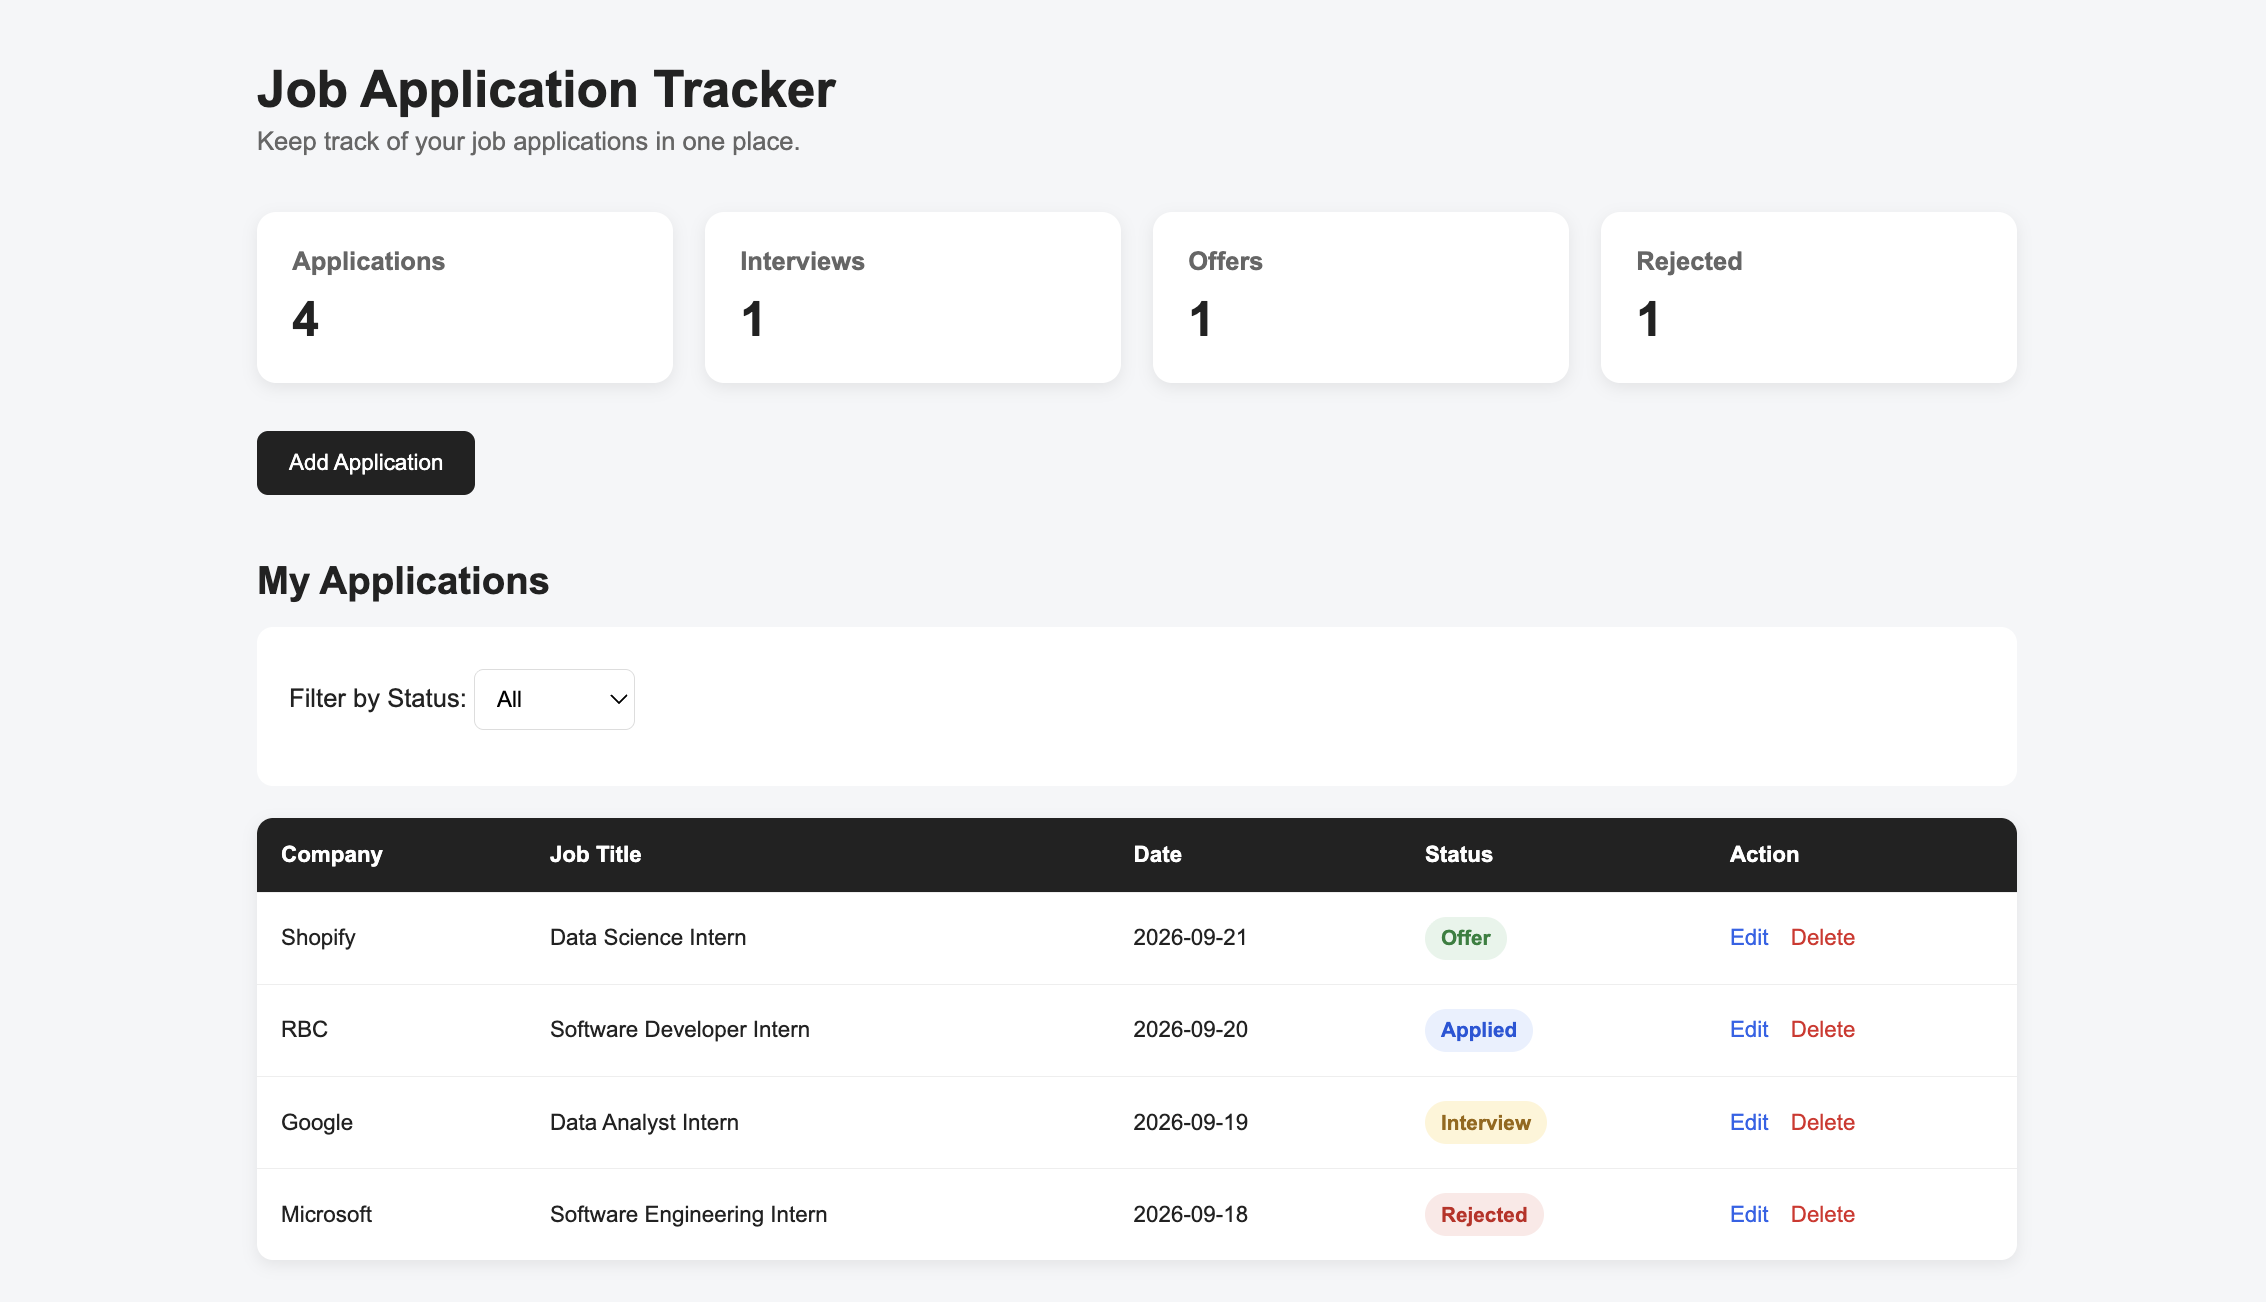
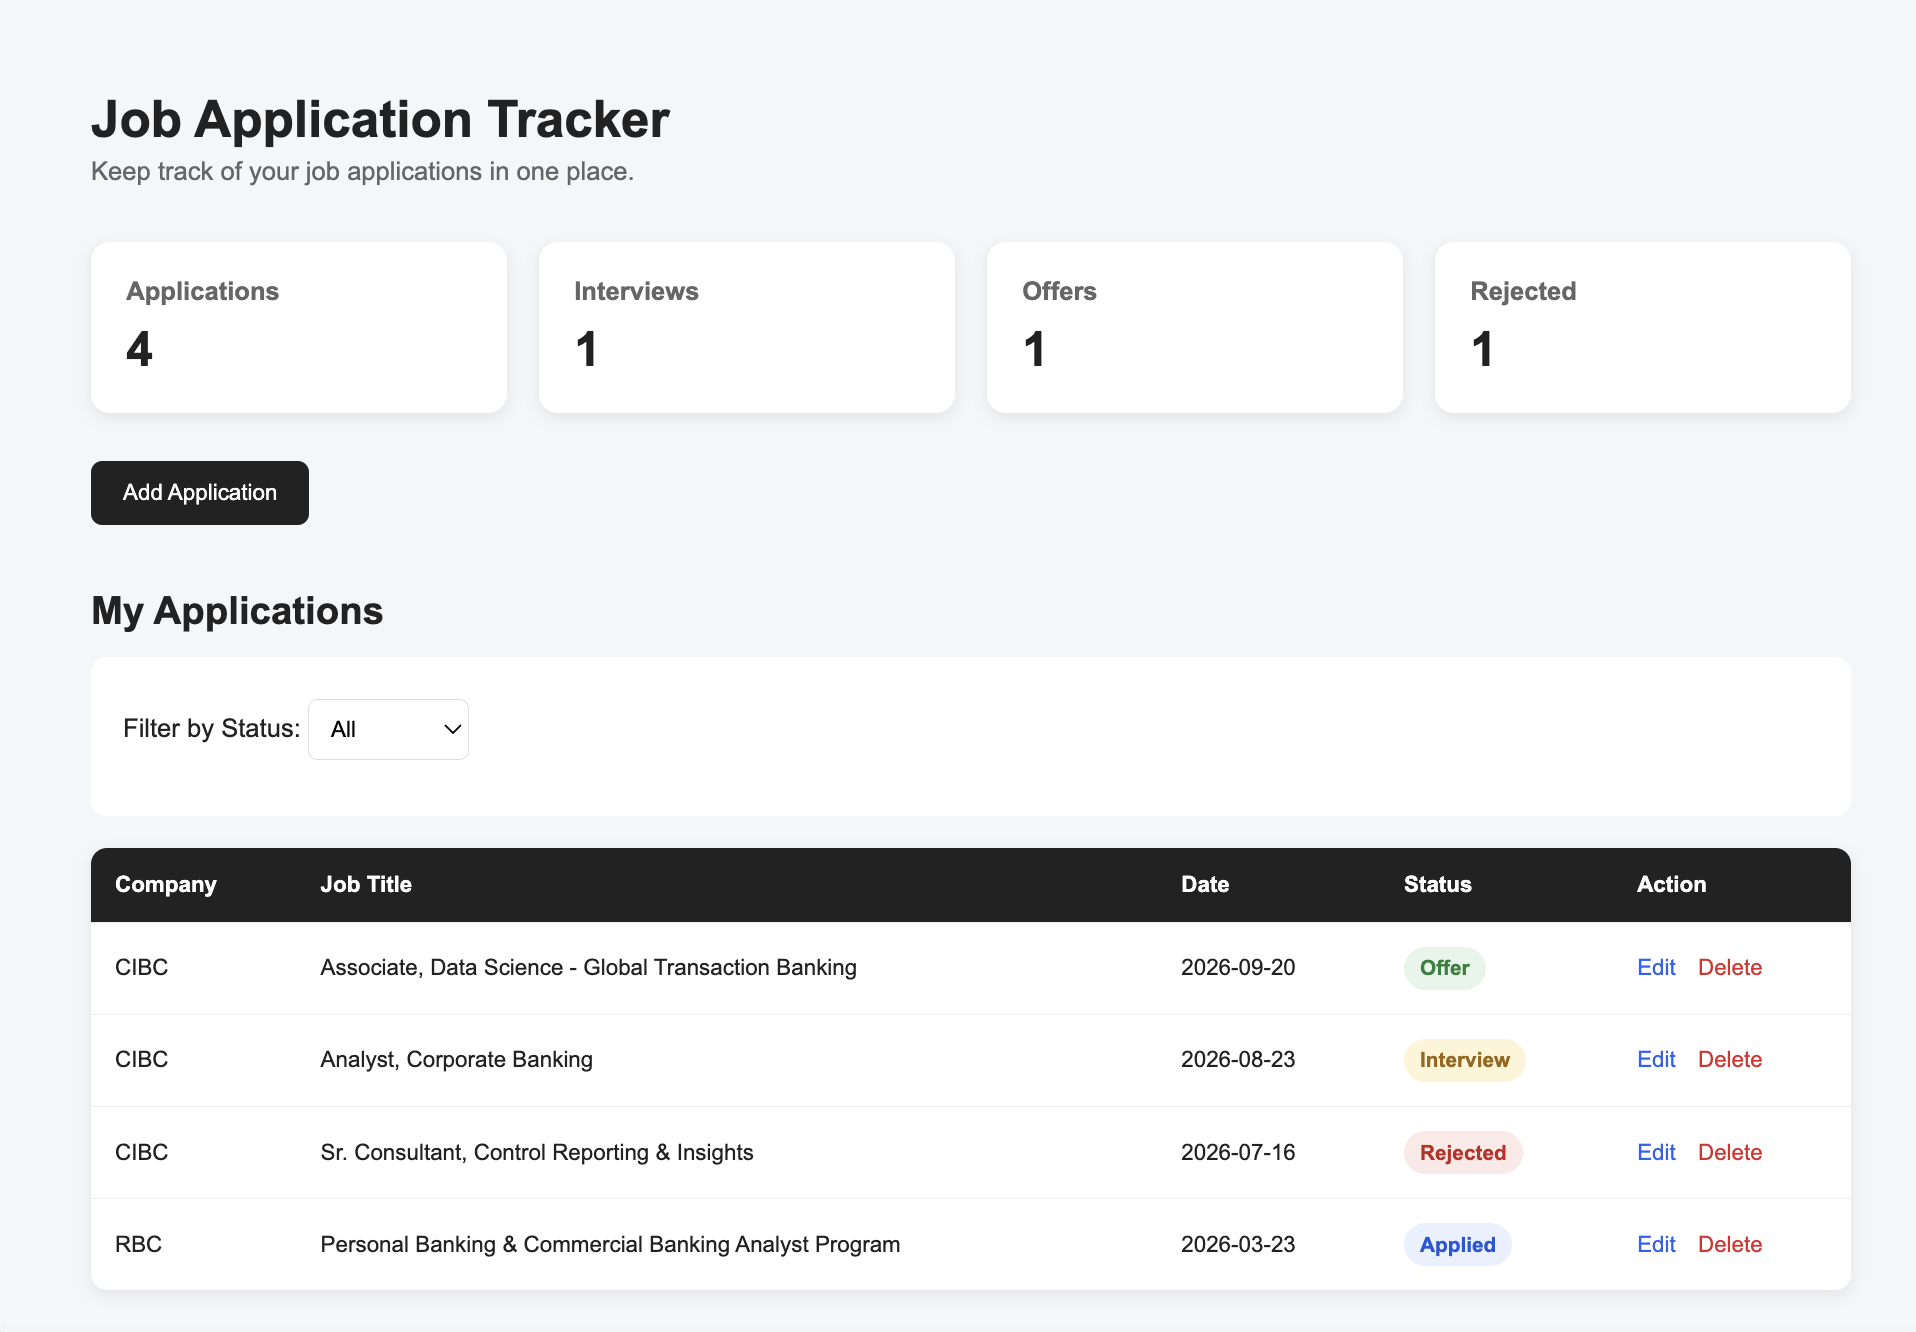
Add AI auto-fill to edit page and update README screenshots

diff --git a/templates/edit_application.html b/templates/edit_application.html
@@ -20,6 +20,23 @@
             <p class="error-message">{{ error }}</p>
         {% endif %}
 
+        <!-- AI auto-fill panel -->
+        <div class="ai-panel" style="border:1px solid #ddd; border-radius:8px; padding:16px; margin-bottom:20px;">
+            <label for="job_description"><strong>Paste job description (optional)</strong></label>
+            <textarea id="job_description" rows="6" style="width:100%; margin-top:6px;"
+                placeholder="Paste the full job posting here..."></textarea>
+
+            <button type="button" id="autofill_btn" style="margin-top:10px;">
+                ✨ Auto-fill with AI
+            </button>
+            <span id="ai_status" style="margin-left:10px; font-size:0.9em; color:#666;"></span>
+
+            <div id="talking_points" style="margin-top:14px; display:none;">
+                <strong>Suggested resume talking points for this posting:</strong>
+                <ul id="talking_points_list"></ul>
+            </div>
+        </div>
+
         <form method="POST">
 
             <label for="company">Company</label>
@@ -51,6 +68,62 @@
         <a href="/" class="back-button">← Back to Dashboard</a>
 
     </div>
+
+    <script>
+        document.getElementById("autofill_btn").addEventListener("click", async function () {
+            const description = document.getElementById("job_description").value.trim();
+            const statusEl = document.getElementById("ai_status");
+            const btn = document.getElementById("autofill_btn");
+
+            if (!description) {
+                statusEl.textContent = "Paste a job description first.";
+                return;
+            }
+
+            btn.disabled = true;
+            statusEl.textContent = "Thinking...";
+
+            try {
+                const res = await fetch("/api/parse-job", {
+                    method: "POST",
+                    headers: { "Content-Type": "application/json" },
+                    body: JSON.stringify({ description })
+                });
+
+                const data = await res.json();
+
+                if (!res.ok) {
+                    statusEl.textContent = data.error || "Something went wrong.";
+                    return;
+                }
+
+                if (data.company) {
+                    document.getElementById("company").value = data.company;
+                }
+                if (data.job_title) {
+                    document.getElementById("job_title").value = data.job_title;
+                }
+
+                const list = document.getElementById("talking_points_list");
+                list.innerHTML = "";
+                (data.resume_talking_points || []).forEach(function (point) {
+                    const li = document.createElement("li");
+                    li.textContent = point;
+                    list.appendChild(li);
+                });
+
+                if ((data.resume_talking_points || []).length > 0) {
+                    document.getElementById("talking_points").style.display = "block";
+                }
+
+                statusEl.textContent = "Done — review the fields below.";
+            } catch (err) {
+                statusEl.textContent = "Network error — check your connection and try again.";
+            } finally {
+                btn.disabled = false;
+            }
+        });
+    </script>
 
 </body>
 </html>

diff --git a/README.md b/README.md
@@ -1,28 +1,41 @@
 # Job Application Tracker
 
+## Screenshots
+
+### Dashboard
+
 ![Job Application Tracker Dashboard](screenshots/dashboard.png)
 
-A web application for tracking job applications, interviews, offers, and rejections in one place.
+### AI-Powered Application Entry
+
+![AI-Powered Job Application Entry](screenshots/dashboard1.png)
+
+A full-stack web application for tracking job applications, interviews, offers, and rejections — with an AI feature that auto-fills applications from a pasted job posting and suggests tailored resume talking points.
+
+**🔗 Live demo:** [job-application-tracker-otge.onrender.com](https://job-application-tracker-otge.onrender.com)
 
 ## Features
 
-* Add job applications
-* Edit existing applications
-* Delete applications
+* Add, edit, and delete job applications
+* **AI auto-fill** — paste a job posting and Google Gemini extracts the company/title and suggests resume talking points tailored to that posting
 * Filter applications by status
 * Sort applications by date
-* Track application statistics
+* Track application statistics (total, interviews, offers, rejections)
 * REST API for creating, viewing, updating, and deleting applications
+* Containerized with Docker and backed by a real Postgres database
+* Continuous integration via GitHub Actions on every push
 
 ## Technologies
 
-* Python
-* Flask
-* SQLite
-* HTML
-* CSS
+* Python / Flask
+* PostgreSQL (via [Neon](https://neon.tech))
+* Google Gemini API
+* Docker / Docker Compose
+* GitHub Actions (CI)
+* HTML / CSS
 * REST API
 * Git/GitHub
+* Deployed on Render
 
 ## API Endpoints
 
@@ -32,8 +45,16 @@ A web application for tracking job applications, interviews, offers, and rejecti
 | POST   | `/api/applications`      | Create a new application |
 | PUT    | `/api/applications/<id>` | Update an application    |
 | DELETE | `/api/applications/<id>` | Delete an application    |
+| POST   | `/api/parse-job`         | Parse a pasted job posting via Gemini and return company, job title, and suggested resume talking points |
 
-## How to Run
+## Screenshots
+
+![Add application with AI auto-fill](screenshots/ai-autofill.png)
+*Paste a job posting and let AI extract the details and suggest resume talking points.*
+
+## How to Run Locally
+
+This project runs via Docker, which handles the Python environment and a local Postgres database for you.
 
 ### 1. Clone the repository
 
@@ -42,30 +63,43 @@ git clone https://github.com/scarelet/job-application-tracker.git
 cd jobtracker
 ```
 
-### 2. Create a virtual environment
+### 2. Set up environment variables
+
+Copy the example file and fill in your own values:
 
 ```bash
-python3 -m venv venv
+cp .env.example .env
 ```
 
-### 3. Activate the virtual environment
+Edit `.env` and add:
+* `GEMINI_API_KEY` — get a free key at [aistudio.google.com/apikey](https://aistudio.google.com/apikey)
+* `GEMINI_MODEL` — defaults to `gemini-3.6-flash`
+* `DATABASE_URL` — already set correctly for local Docker use, no changes needed
+
+### 3. Build and run with Docker
 
 ```bash
-source venv/bin/activate
+docker compose up --build
 ```
 
-### 4. Install dependencies
+This starts both the Flask app and a local Postgres database together.
 
-```bash
-pip install -r requirements.txt
+### 4. Open the app
+
+Go to:
+
+```
+http://localhost:8000
 ```
 
-### 5. Run the application
+## Deployment
 
-```bash
-venv/bin/python -m flask --app app run --port 5001
-```
+This app is deployed on [Render](https://render.com) (free tier, Docker runtime) with a [Neon](https://neon.tech) Postgres database (free tier). Environment variables (`DATABASE_URL`, `GEMINI_API_KEY`, `GEMINI_MODEL`) are configured directly in the Render dashboard.
 
-Open your browser and go to:
+## Continuous Integration
 
-`http://127.0.0.1:5001`
+Every push to `main` triggers a GitHub Actions workflow (`.github/workflows/ci.yml`) that:
+* Installs dependencies and verifies the app imports cleanly against a temporary Postgres instance
+* Builds the Docker image
+
+See the [Actions tab](https://github.com/scarelet/job-application-tracker/actions) for build status.
